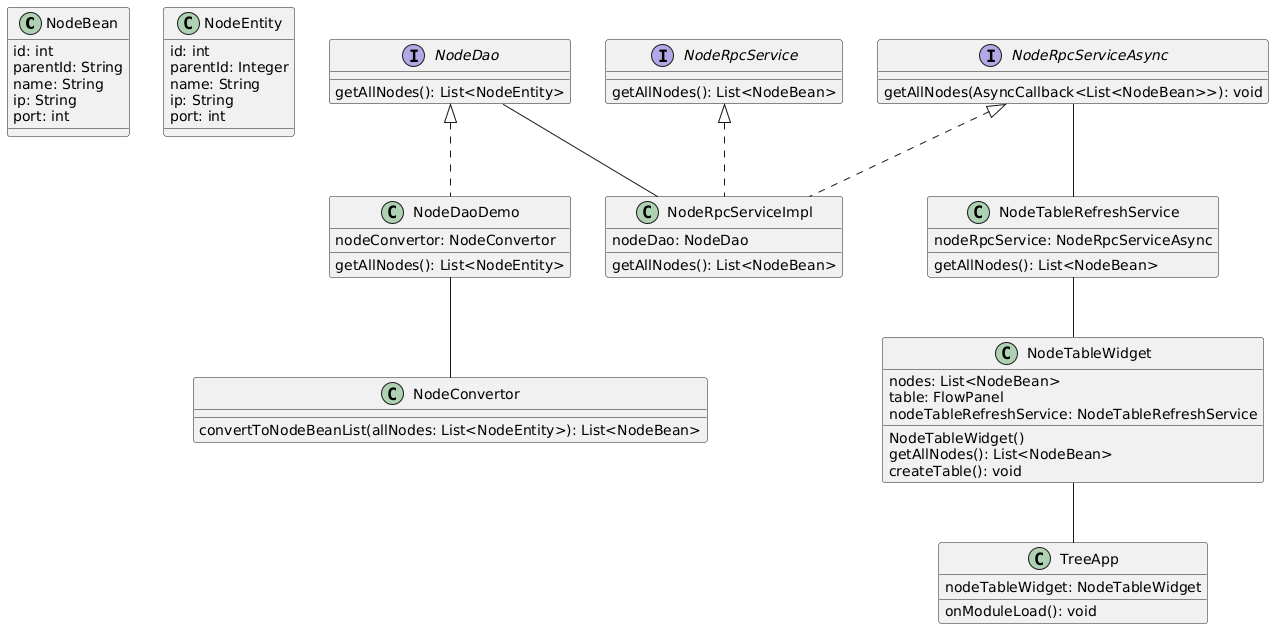
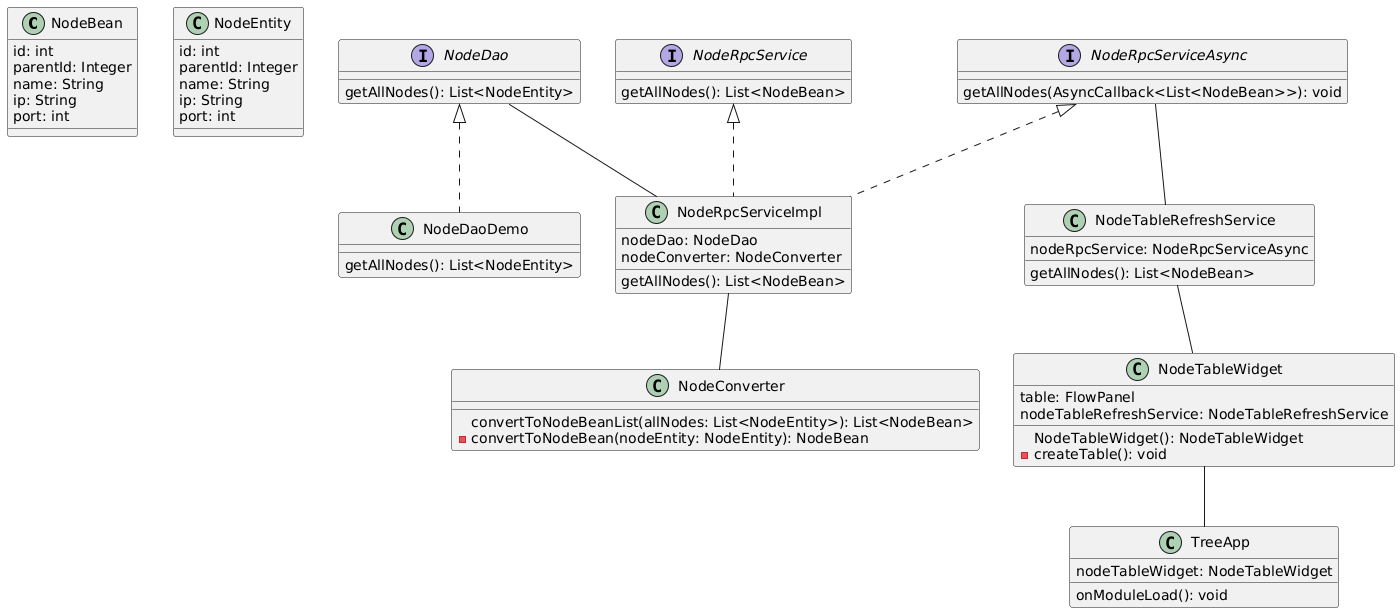
Исправлены диаграммы

diff --git a/docs/tree-design.md b/docs/tree-design.md
@@ -27,17 +27,17 @@
 
 ### Сущности
 
-- УзелBean
-- УзелEntity
+- NodeBean
+- NodeEntity
 
 ### Сервисы
 
-- Показатор
-- Обновлятор
-- Получатель Данных С Сервера
-- Отправлятор Данных
-- Преобразоватор Данных
-- Получатель Данных Из Базы Данных
+- NodeTableWidget
+- NodeTableRefreshService
+- NodeRpcService
+- NodeRpcServiceImpl
+- NodeConverter
+- NodeDao
 
 ## Диаграмма C4
 
